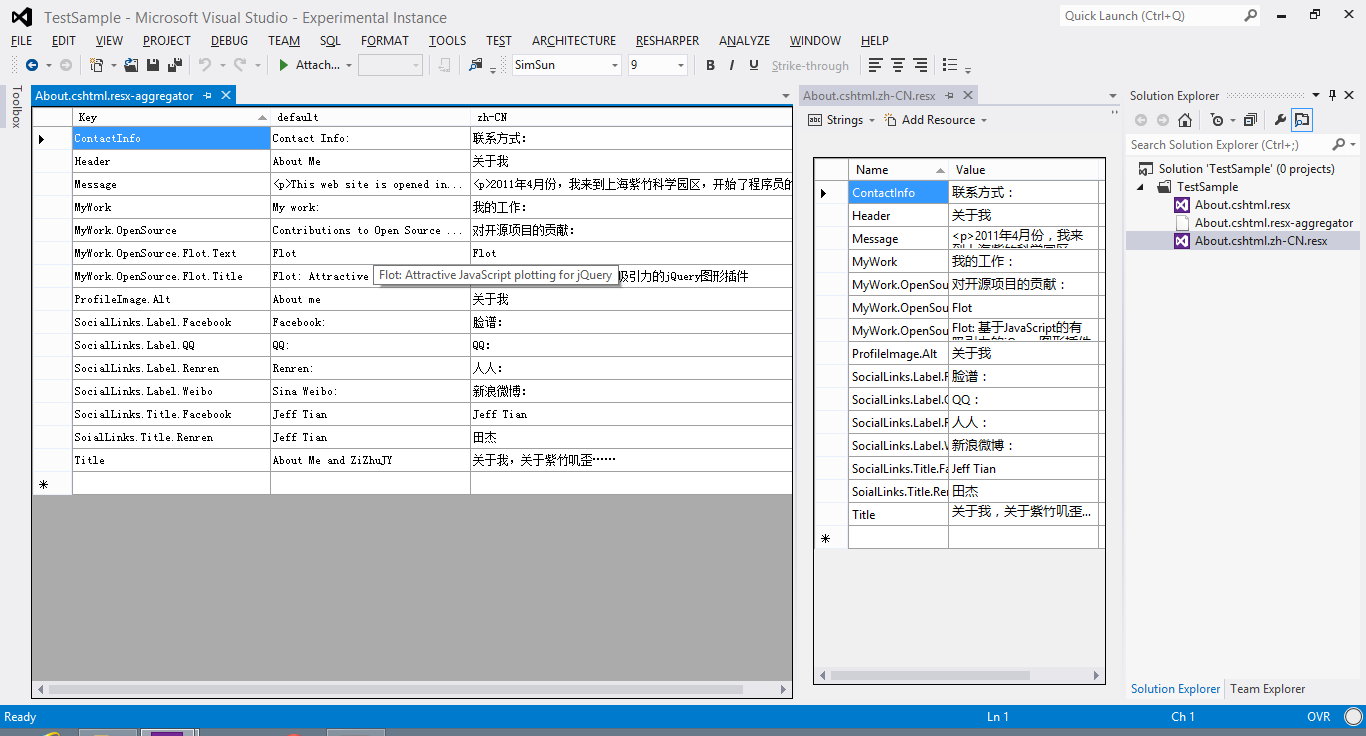
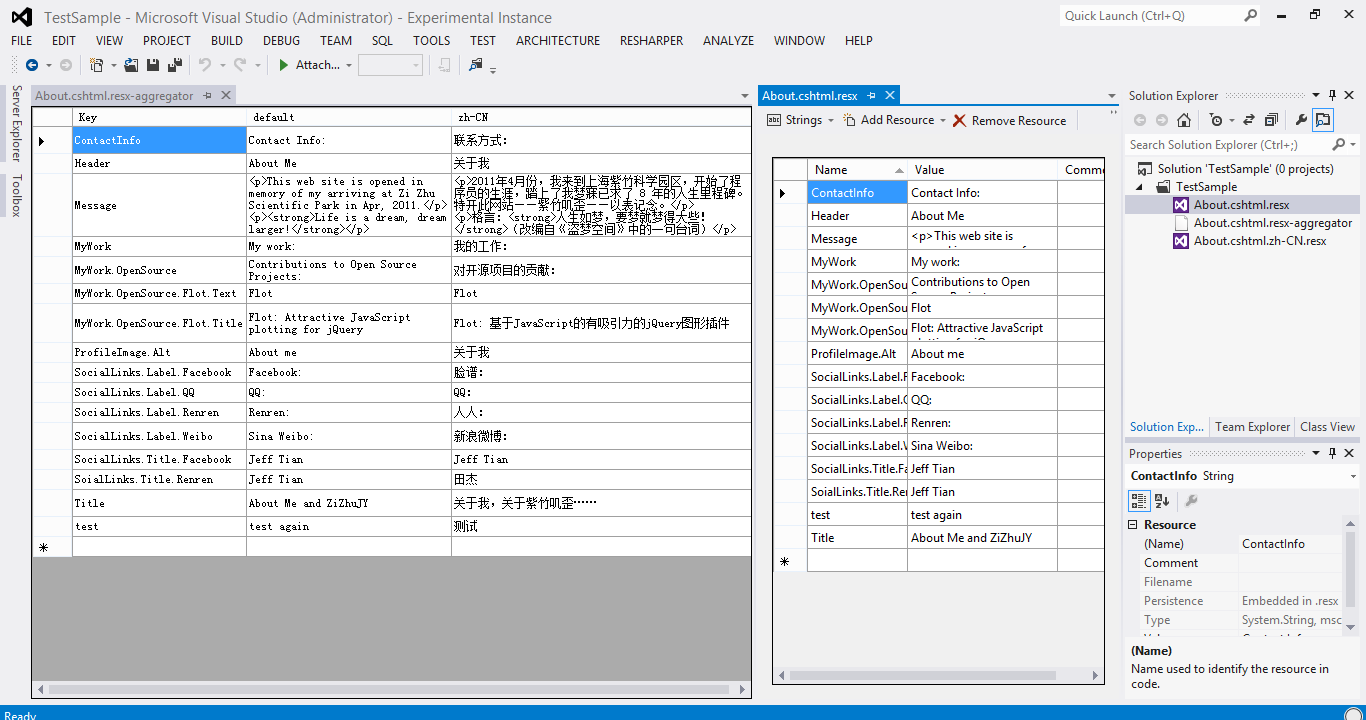
Update screenshot and README.md.

Changed region(s): [[0.0, 0.0, 1.0, 1.0], [0.7994, 0.0, 0.8609, 0.0306], [0.9224, 0.7333, 0.9531, 0.7639]]

diff --git a/Core/ResXAggregator.cs b/Core/ResXAggregator.cs
@@ -28,49 +28,6 @@ namespace ZiZhuJY.ResX_Aggregator.Core
 
         public DataTable DataTable { get; private set; }
 
-        /*
-            get
-            {
-                var dt = new DataTable();
-
-                dt.Columns.Add("Key");
-
-                foreach (var di in Dictionary)
-                {
-                    dt.Rows.Add(di.Key);
-
-                    foreach (var item in di.Value)
-                    {
-                        if (!dt.Columns.Contains(item.Key))
-                        {
-                            dt.Columns.Add(item.Key);
-                        }
-
-                        dt.Rows[dt.Rows.Count - 1][item.Key] = item.Value;
-                    }
-                }
-
-                return dt;
-            }
-
-            set
-            {
-                MessageBox.Show("SEt");
-                var dt = value;
-                _dictionary.Clear();
-                foreach (DataRow row in dt.Rows)
-                {
-                    var cultures = new Dictionary<string, string>();
-
-                    for (var i = 1; i < row.Table.Columns.Count; i++)
-                    {
-                        cultures.Add(row.Table.Columns[i].ColumnName, row[i].ToString());
-                    }
-
-                    _dictionary.Add(row[0].ToString(), cultures);
-                }
-            }*/
-
         public ResXAggregator(string resxAggregatorFullPath)
         {
             _myFullPath = resxAggregatorFullPath;

diff --git a/ResX-Aggregator/GridEditor.cs b/ResX-Aggregator/GridEditor.cs
@@ -291,7 +291,6 @@ namespace ZiZhuJY.ResX_Aggregator
 
             DataGridControl.DataSource = null;
             DataGridControl.DataSource = m_resxAgg.DataTable;
-            //DataGridControl.DataMember = m_resxAgg.DataTable.TableName;
             DataGridControl.Columns[0].Frozen = true;
 
             var maxColumnWidth = GridEditorSettings.ColumnMaxWidth;

diff --git a/README.md b/README.md
@@ -2,3 +2,23 @@ ResX-Aggregator
 ===============
 
 Easy the resource(.resx) file editing. 
+
+** Feature **
+Aggregate all the .resx files into one editor.
+
+If you have these .resx files under a folder:
+- index.cshtml.resx
+- index.cshtml.en-US.resx
+- index.cshtml.zh-CN.resx
+
+It's annoying that edit them one by one. Why don't edit them all in a single file?
+
+Now with ResXAggregator, you can add a file that named "index.cshtml.resx-aggregator", and then open it in visual studio, it will allow you edit all the different cultures and save them back in just one single editor. It displays all the resource settings as this way:
+
+	| Name            | default                  | en-US                | zh-CN       |
+	| CloseLinkDialog | Stäng                    | Close                | 关闭         |
+	| CloseMsg        | Stäng meddelandefönstret | Close message window | 关闭消息窗口 |
+	| CloseTips       | Stäng hjälp              | Close help           | 关闭帮助     |
+
+** Screenshot **
+![Screenshot for ResXAggregator's UI](ResX-Aggregator/Templates/ResXAggregator.png "Screenshot for ResXAggregator's UI")
